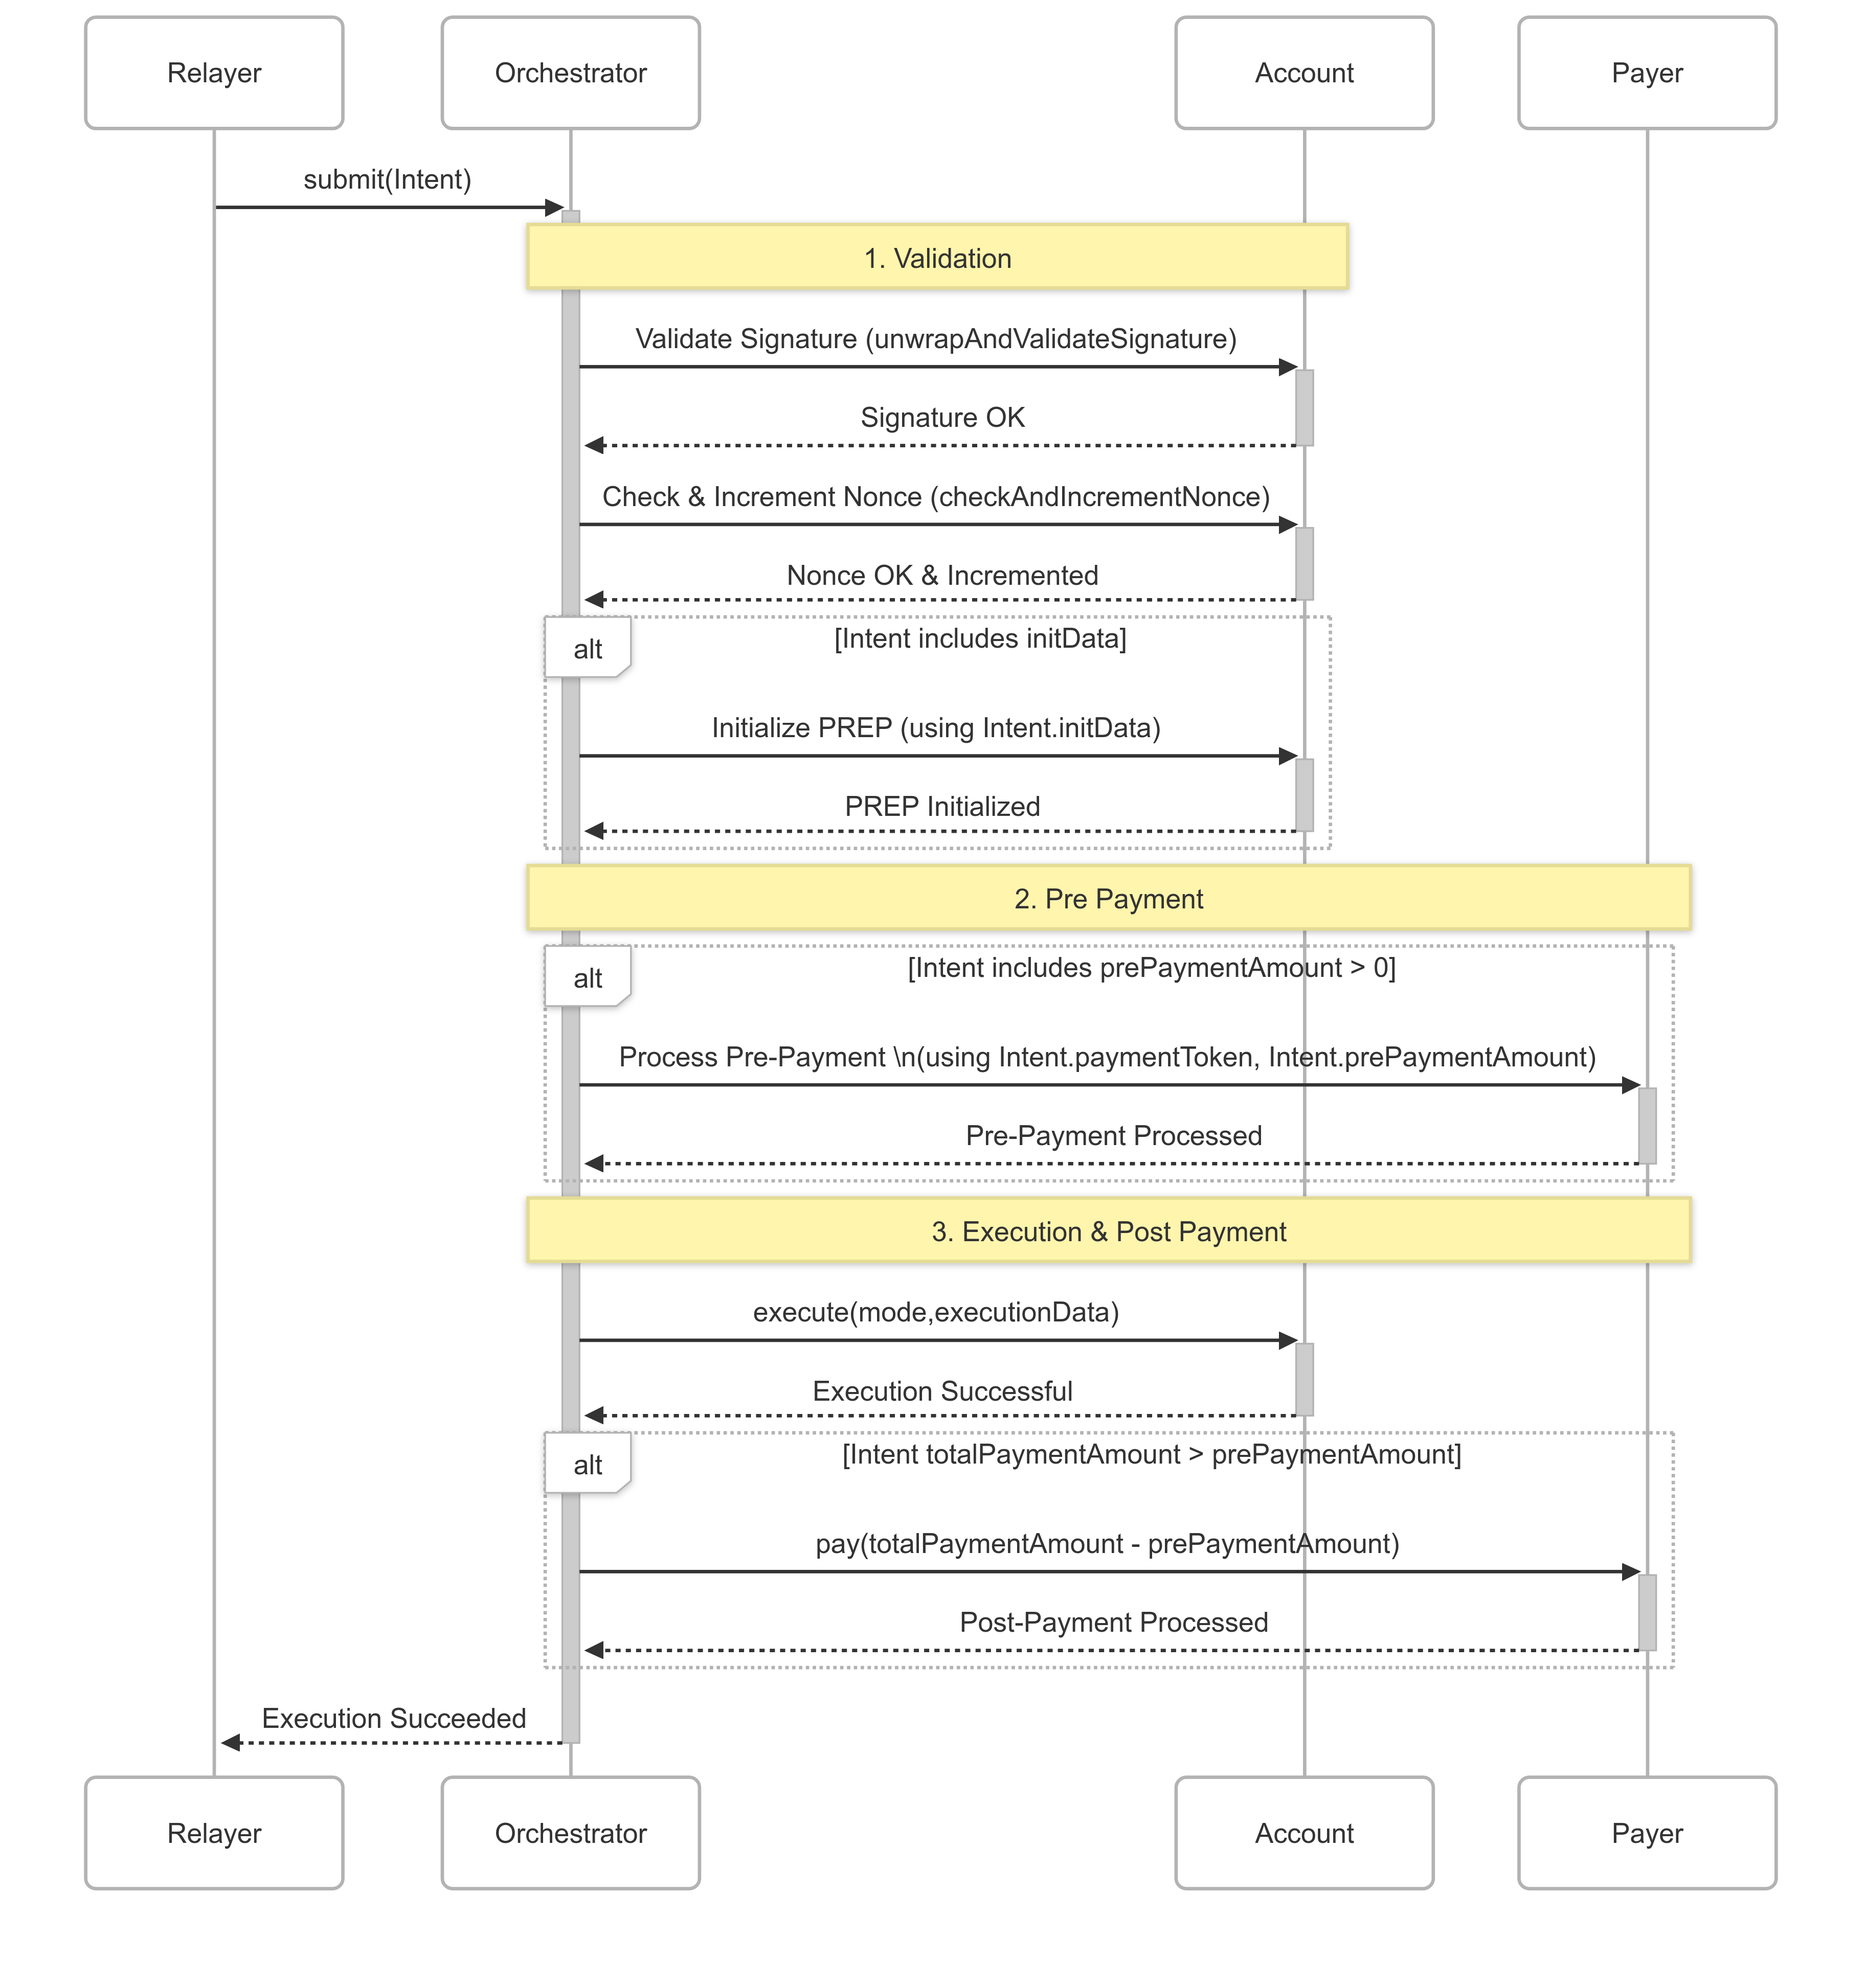
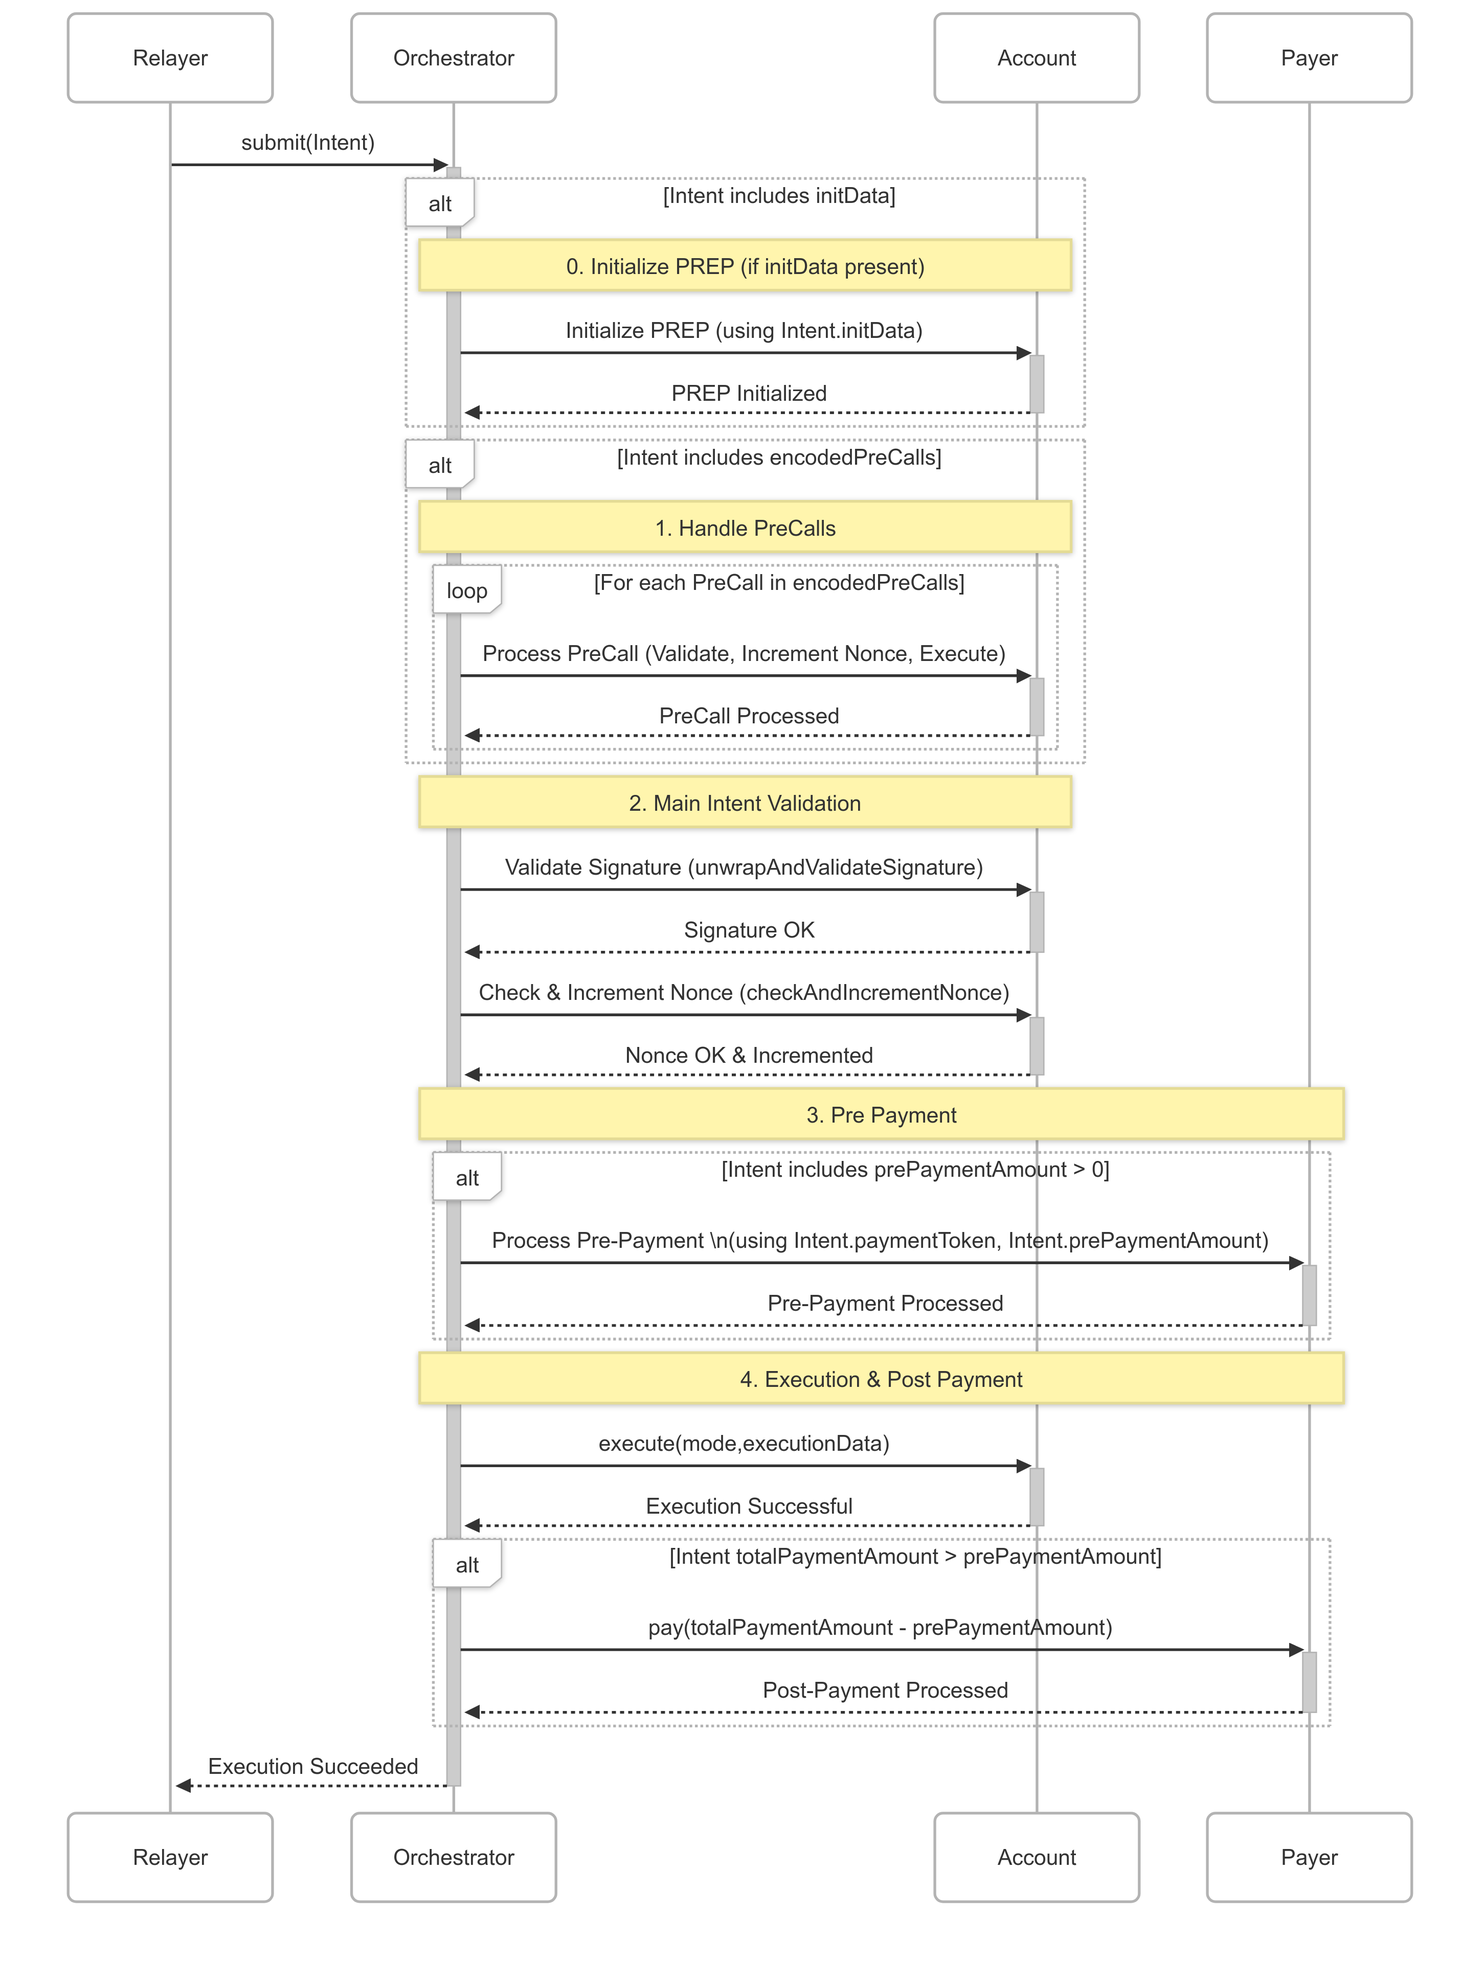
fix: flow diagram and natspec

diff --git a/apps/docs/pages/contracts/orchestrator.md b/apps/docs/pages/contracts/orchestrator.md
@@ -39,17 +39,13 @@ struct Intent {
     uint256 totalPaymentMaxAmount;
     /// @dev The combined gas limit for payment, verification, and calling the EOA.
     uint256 combinedGas;
-    /// @dev Optional array of encoded PreCalls that will be verified and executed
+    /// @dev Optional array of encoded SignedCalls that will be verified and executed
     /// after PREP (if any) and before the validation of the overall Intent.
     /// A PreCall will NOT have its gas limit or payment applied.
     /// The overall Intent's gas limit and payment will be applied, encompassing all its PreCalls.
     /// The execution of a PreCall will check and increment the nonce in the PreCall.
     /// If at any point, any PreCall cannot be verified to be correct, or fails in execution,
     /// the overall Intent will revert before validation, and execute will return a non-zero error.
-    /// A PreCall can contain PreCalls, forming a tree structure.
-    /// The `executionData` tree will be executed in post-order (i.e. left -> right -> current).
-    /// The `encodedPreCalls` are included in the EIP712 signature, which enables execution order
-    /// to be enforced on-the-fly even if the nonces are from different sequences.
     bytes[] encodedPreCalls;
     ////////////////////////////////////////////////////////////////////////
     // Additional Fields (Not included in EIP-712)
